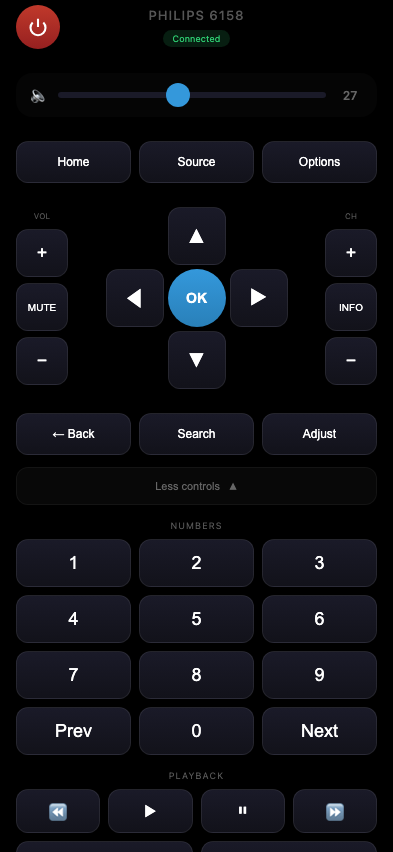
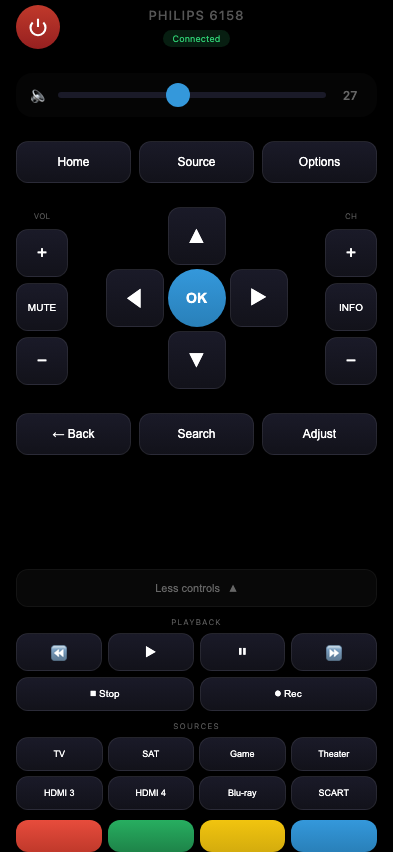
UI improvements: remove numpad, compact layout, fix spacing
- Remove numpad section (keep playback, sources, colors)
- Compact collapsible elements for better fit
- Fix expand button positioning in both states
- Add proper safe-area padding for iPhone

Changed region(s): [[0.0305, 0.6103, 0.9771, 1.0], [0.3969, 0.5493, 0.5496, 0.5798], [0.5802, 0.5493, 0.6107, 0.5798]]

diff --git a/index.html b/index.html
@@ -42,9 +42,8 @@
             height: 100vh;
             max-height: 100vh;
             overflow-y: hidden;
-            padding: 10px 16px 20px;
+            padding: 10px 16px 40px;
             padding-top: calc(env(safe-area-inset-top, 10px) + 5px);
-            padding-bottom: env(safe-area-inset-bottom, 20px);
             display: flex;
             flex-direction: column;
             justify-content: space-between;
@@ -54,6 +53,7 @@
             overflow-y: auto;
             -webkit-overflow-scrolling: touch;
             justify-content: flex-start;
+            padding-bottom: calc(env(safe-area-inset-bottom, 20px) + 20px);
         }
 
         .main-content {
@@ -298,6 +298,11 @@
             justify-content: center;
             gap: 8px;
             margin-top: auto;
+            flex-shrink: 0;
+        }
+
+        .remote.expanded .expand-btn {
+            margin-top: 12px;
         }
 
         .expand-btn:active {
@@ -325,18 +330,18 @@
         }
 
         .collapsible-content {
-            padding-top: 15px;
+            padding-top: 10px;
         }
 
         .section {
-            margin-bottom: 15px;
+            margin-bottom: 10px;
         }
 
         .section-title {
-            font-size: 9px;
+            font-size: 8px;
             color: #555;
             text-transform: uppercase;
-            margin-bottom: 8px;
+            margin-bottom: 6px;
             text-align: center;
             letter-spacing: 1px;
         }
@@ -358,48 +363,48 @@
         .playback-row {
             display: grid;
             grid-template-columns: repeat(4, 1fr);
-            gap: 8px;
-            margin-bottom: 8px;
+            gap: 6px;
+            margin-bottom: 6px;
         }
 
         .playback-row .btn {
-            height: 44px;
-            font-size: 14px;
+            height: 38px;
+            font-size: 13px;
         }
 
         .playback-row2 {
             display: grid;
             grid-template-columns: repeat(2, 1fr);
-            gap: 8px;
+            gap: 6px;
         }
 
         .playback-row2 .btn {
-            height: 40px;
-            font-size: 11px;
+            height: 34px;
+            font-size: 10px;
         }
 
         /* Sources */
         .sources {
             display: grid;
             grid-template-columns: repeat(4, 1fr);
-            gap: 6px;
+            gap: 5px;
         }
 
         .sources .btn {
-            font-size: 10px;
-            height: 38px;
-            padding: 5px;
+            font-size: 9px;
+            height: 34px;
+            padding: 4px;
         }
 
         /* Color buttons */
         .color-row {
             display: grid;
             grid-template-columns: repeat(4, 1fr);
-            gap: 8px;
+            gap: 6px;
         }
 
         .color-row .btn {
-            height: 36px;
+            height: 32px;
             border: none;
         }
 
@@ -484,24 +489,6 @@
         <div class="collapsible" id="collapsible">
             <div class="collapsible-content">
                 <div class="section">
-                    <div class="section-title">Numbers</div>
-                    <div class="numpad">
-                        <button class="btn" onclick="sendKey('Digit1')">1</button>
-                        <button class="btn" onclick="sendKey('Digit2')">2</button>
-                        <button class="btn" onclick="sendKey('Digit3')">3</button>
-                        <button class="btn" onclick="sendKey('Digit4')">4</button>
-                        <button class="btn" onclick="sendKey('Digit5')">5</button>
-                        <button class="btn" onclick="sendKey('Digit6')">6</button>
-                        <button class="btn" onclick="sendKey('Digit7')">7</button>
-                        <button class="btn" onclick="sendKey('Digit8')">8</button>
-                        <button class="btn" onclick="sendKey('Digit9')">9</button>
-                        <button class="btn" onclick="sendKey('Previous')">Prev</button>
-                        <button class="btn" onclick="sendKey('Digit0')">0</button>
-                        <button class="btn" onclick="sendKey('Next')">Next</button>
-                    </div>
-                </div>
-
-                <div class="section">
                     <div class="section-title">Playback</div>
                     <div class="playback-row">
                         <button class="btn" onclick="sendKey('Rewind')">⏪</button>
@@ -529,14 +516,11 @@
                     </div>
                 </div>
 
-                <div class="section">
-                    <div class="section-title">Color</div>
-                    <div class="color-row">
-                        <button class="btn color-red" onclick="sendKey('RedColour')"></button>
-                        <button class="btn color-green" onclick="sendKey('GreenColour')"></button>
-                        <button class="btn color-yellow" onclick="sendKey('YellowColour')"></button>
-                        <button class="btn color-blue" onclick="sendKey('BlueColour')"></button>
-                    </div>
+                <div class="color-row">
+                    <button class="btn color-red" onclick="sendKey('RedColour')"></button>
+                    <button class="btn color-green" onclick="sendKey('GreenColour')"></button>
+                    <button class="btn color-yellow" onclick="sendKey('YellowColour')"></button>
+                    <button class="btn color-blue" onclick="sendKey('BlueColour')"></button>
                 </div>
             </div>
         </div>
